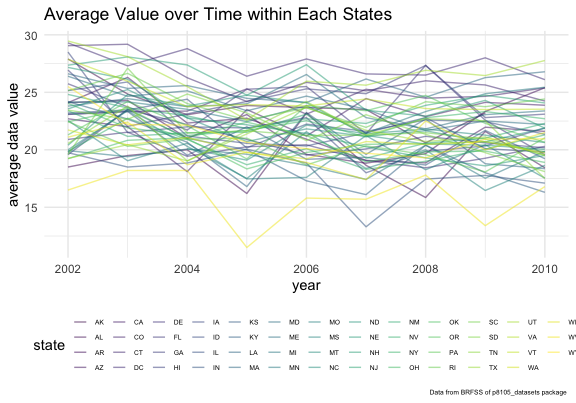
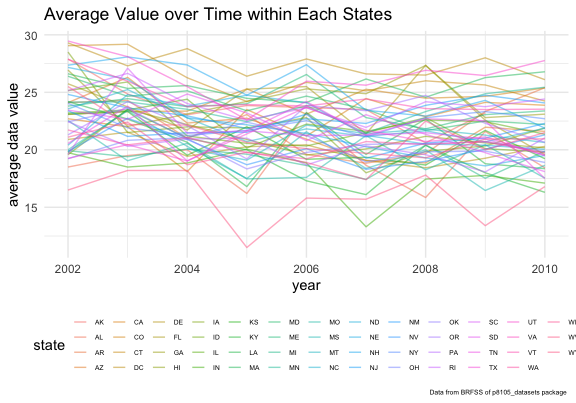
change color map, generate table and plot from problem 3 data, find some apparent trends of table and plot

diff --git a/p8105_hw3_ry2417.md b/p8105_hw3_ry2417.md
@@ -19,12 +19,12 @@ knitr::opts_chunk$set(
 theme_set(theme_minimal() + theme(legend.position = "bottom"))
 
 options(
-  ggplot2.continuous.colour = "viridis",
-  ggplot2.continuous.fill = "viridis"
+  ggplot2.continuous.colour = "turbo",
+  ggplot2.continuous.fill = "turbo"
 )
 
-scale_colour_discrete = scale_colour_viridis_d
-scale_fill_discrete = scale_fill_viridis_d
+scale_colour_discrete = scale_colour_viridis_d(option = "turbo")
+scale_fill_discrete = scale_fill_viridis_d(option = "turbo")
 ```
 
 load `p8105.datasets` package
@@ -426,8 +426,7 @@ import and clean data set for problem 3 from data `accel_data`
 ``` r
 p3_df <- 
   read_csv(
-    "data/accel_data.csv",
-    col_types = cols(`day_id` = col_factor(ordered = TRUE))
+    "data/accel_data.csv"
   ) %>% 
   janitor::clean_names() %>% 
   rename(
@@ -441,7 +440,7 @@ p3_df <-
     values_to = "activity_in_minute"
   ) %>% 
   mutate(
-    minute_of_day = factor(minute_of_day, ordered = TRUE),
+    minute_of_day = as.numeric(minute_of_day),
     week_vs_weekend = ifelse(day %in% c("Sunday", "Saturday"), "weekend", "week")
   )
 ```
@@ -467,14 +466,110 @@ activity\_in\_minute, week\_vs\_weekend. The average activity count per
 minute is 267.0440592. Here is the examples of some observations
 
 | week | day | day\_of\_week | minute\_of\_day | activity\_in\_minute | week\_vs\_weekend |
-|-----:|:----|:--------------|:----------------|---------------------:|:------------------|
-|    1 | 1   | Friday        | 1               |             88.37778 | week              |
-|    1 | 1   | Friday        | 2               |             82.24444 | week              |
-|    1 | 1   | Friday        | 3               |             64.44444 | week              |
-|    1 | 1   | Friday        | 4               |             70.04444 | week              |
-|    1 | 1   | Friday        | 5               |             75.04444 | week              |
-|    1 | 1   | Friday        | 6               |             66.26667 | week              |
-|    1 | 1   | Friday        | 7               |             53.75556 | week              |
-|    1 | 1   | Friday        | 8               |             47.84444 | week              |
-|    1 | 1   | Friday        | 9               |             55.46667 | week              |
-|    1 | 1   | Friday        | 10              |             42.95556 | week              |
+|-----:|----:|:--------------|----------------:|---------------------:|:------------------|
+|    1 |   1 | Friday        |               1 |             88.37778 | week              |
+|    1 |   1 | Friday        |               2 |             82.24444 | week              |
+|    1 |   1 | Friday        |               3 |             64.44444 | week              |
+|    1 |   1 | Friday        |               4 |             70.04444 | week              |
+|    1 |   1 | Friday        |               5 |             75.04444 | week              |
+|    1 |   1 | Friday        |               6 |             66.26667 | week              |
+|    1 |   1 | Friday        |               7 |             53.75556 | week              |
+|    1 |   1 | Friday        |               8 |             47.84444 | week              |
+|    1 |   1 | Friday        |               9 |             55.46667 | week              |
+|    1 |   1 | Friday        |              10 |             42.95556 | week              |
+
+create a table showing a total activity variable for each day across
+minutes
+
+``` r
+p3_df %>% 
+  group_by(day) %>% 
+  summarise(
+    activity_in_day = sum(activity_in_minute)
+  ) %>% 
+  knitr::kable()
+```
+
+| day | activity\_in\_day |
+|----:|------------------:|
+|   1 |         480542.62 |
+|   2 |          78828.07 |
+|   3 |         376254.00 |
+|   4 |         631105.00 |
+|   5 |         355923.64 |
+|   6 |         307094.24 |
+|   7 |         340115.01 |
+|   8 |         568839.00 |
+|   9 |         295431.00 |
+|  10 |         607175.00 |
+|  11 |         422018.00 |
+|  12 |         474048.00 |
+|  13 |         423245.00 |
+|  14 |         440962.00 |
+|  15 |         467420.00 |
+|  16 |         685910.00 |
+|  17 |         382928.00 |
+|  18 |         467052.00 |
+|  19 |         371230.00 |
+|  20 |         381507.00 |
+|  21 |         468869.00 |
+|  22 |         154049.00 |
+|  23 |         409450.00 |
+|  24 |           1440.00 |
+|  25 |         260617.00 |
+|  26 |         340291.00 |
+|  27 |         319568.00 |
+|  28 |         434460.00 |
+|  29 |         620860.00 |
+|  30 |         389080.00 |
+|  31 |           1440.00 |
+|  32 |         138421.00 |
+|  33 |         549658.00 |
+|  34 |         367824.00 |
+|  35 |         445366.00 |
+
+Day2, day24 and day31 have the total activities that much lower than
+other days.  
+
+Make a single-panel plot that shows the 24-hour activity time courses
+for each day and use color to indicate day of the week.
+
+``` r
+p3_df %>% 
+  mutate(
+    hour_of_day = minute_of_day/60
+  ) %>% 
+  ggplot(aes(x = hour_of_day, 
+             y = activity_in_minute, 
+             group = day, 
+             color = day_of_week)) +
+  geom_point(alpha = .1) +
+  geom_line() +
+  labs(y = "activity count",
+       x = "hour of day",
+    title = "24-hour activity for each day ",
+    caption = "Data from accel_data",
+    colour = "day of week") +
+  scale_x_continuous(
+    breaks = 0:24
+  ) +
+  theme(
+    axis.text.x = element_text(size = 7),
+    axis.text.y = element_text(size = 7),
+    axis.title = element_text(size = 9),
+    plot.title = element_text(size = 12),
+    plot.caption = element_text(size = 5),
+    legend.title = element_text(size = 8),
+    legend.text = element_text(size = 7),
+    legend.key.size = unit(0.2, "cm")
+  ) +
+  guides(color = guide_legend(nrow = 1))
+```
+
+<img src="p8105_hw3_ry2417_files/figure-gfm/unnamed-chunk-14-1.png" width="90%" />
+
+From the plot, we can see that activity is extremely high during 7pm to
+10pm and moderately high between 6am to 12pm and 4pm to 5pm. The overall
+activity is more stable and lower on Tuesday than other days of week.
+There are high activity in the afternoon and evening on Friday and
+Saturday. The activity of Sunday is concentrated between 11am to 12 pm.
